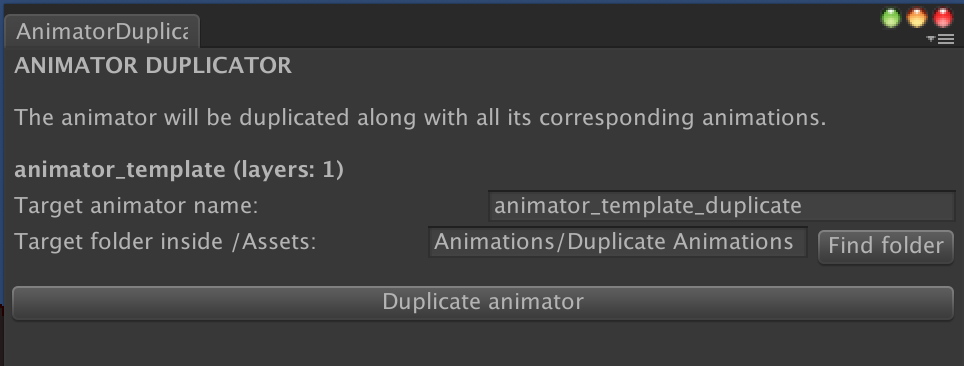
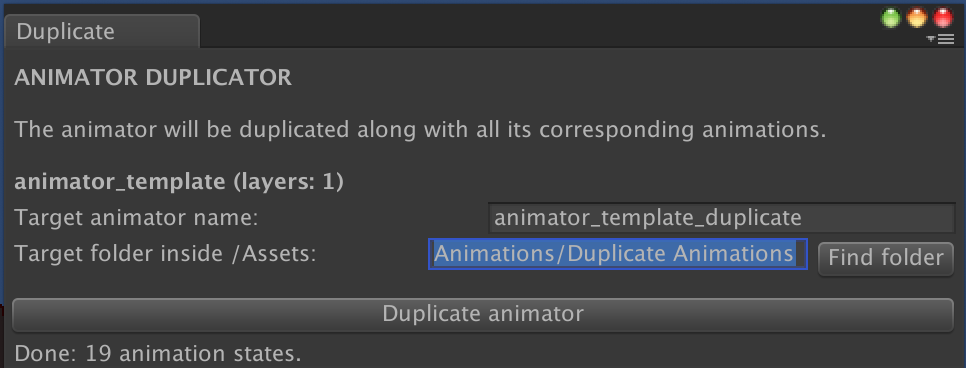
visual updates

diff --git a/Assets/Editor/AnimatorDuplicator.cs b/Assets/Editor/AnimatorDuplicator.cs
@@ -74,6 +74,7 @@ public class AnimatorDuplicator : EditorWindow
 
         var window = GetWindow<AnimatorDuplicator>();
         window.position = new Rect(Screen.width * 0.5f, Screen.height * 0.5f, 480, 160);
+        window.titleContent.text = "Duplicate";
         window.Show();
     }
 
@@ -81,6 +82,7 @@ public class AnimatorDuplicator : EditorWindow
     {
         if (selectedAnimator != null && selectedAnimator is UnityEditor.Animations.AnimatorController)
         {
+            EditorGUILayout.Separator();
             EditorGUILayout.LabelField("ANIMATOR DUPLICATOR", EditorStyles.boldLabel);
             EditorGUILayout.Separator();
 
